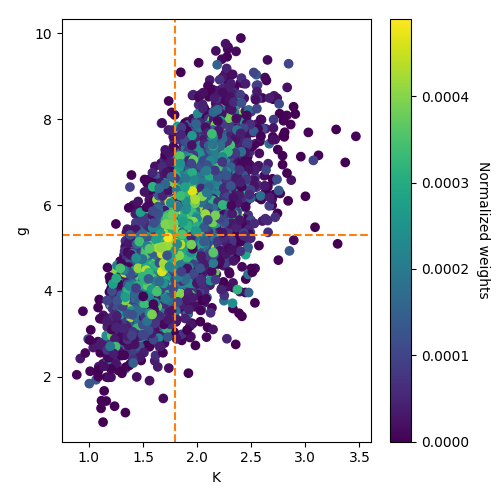
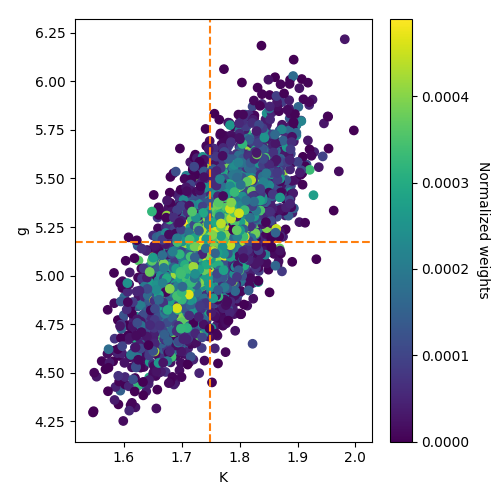
Updated test parameters.

diff --git a/examples/spring_mass/spring_mass_example.py b/examples/spring_mass/spring_mass_example.py
@@ -8,7 +8,7 @@ measure_t_grid = np.arange(0., 5., 0.2)  #time
 model = SpringMassModel(state0, measure_t_grid)
 
 # Load data
-noise_stddev = 0.94
+noise_stddev = 0.2
 displacement_data = np.genfromtxt('noisy_data.txt')
 
 # Define prior distributions
